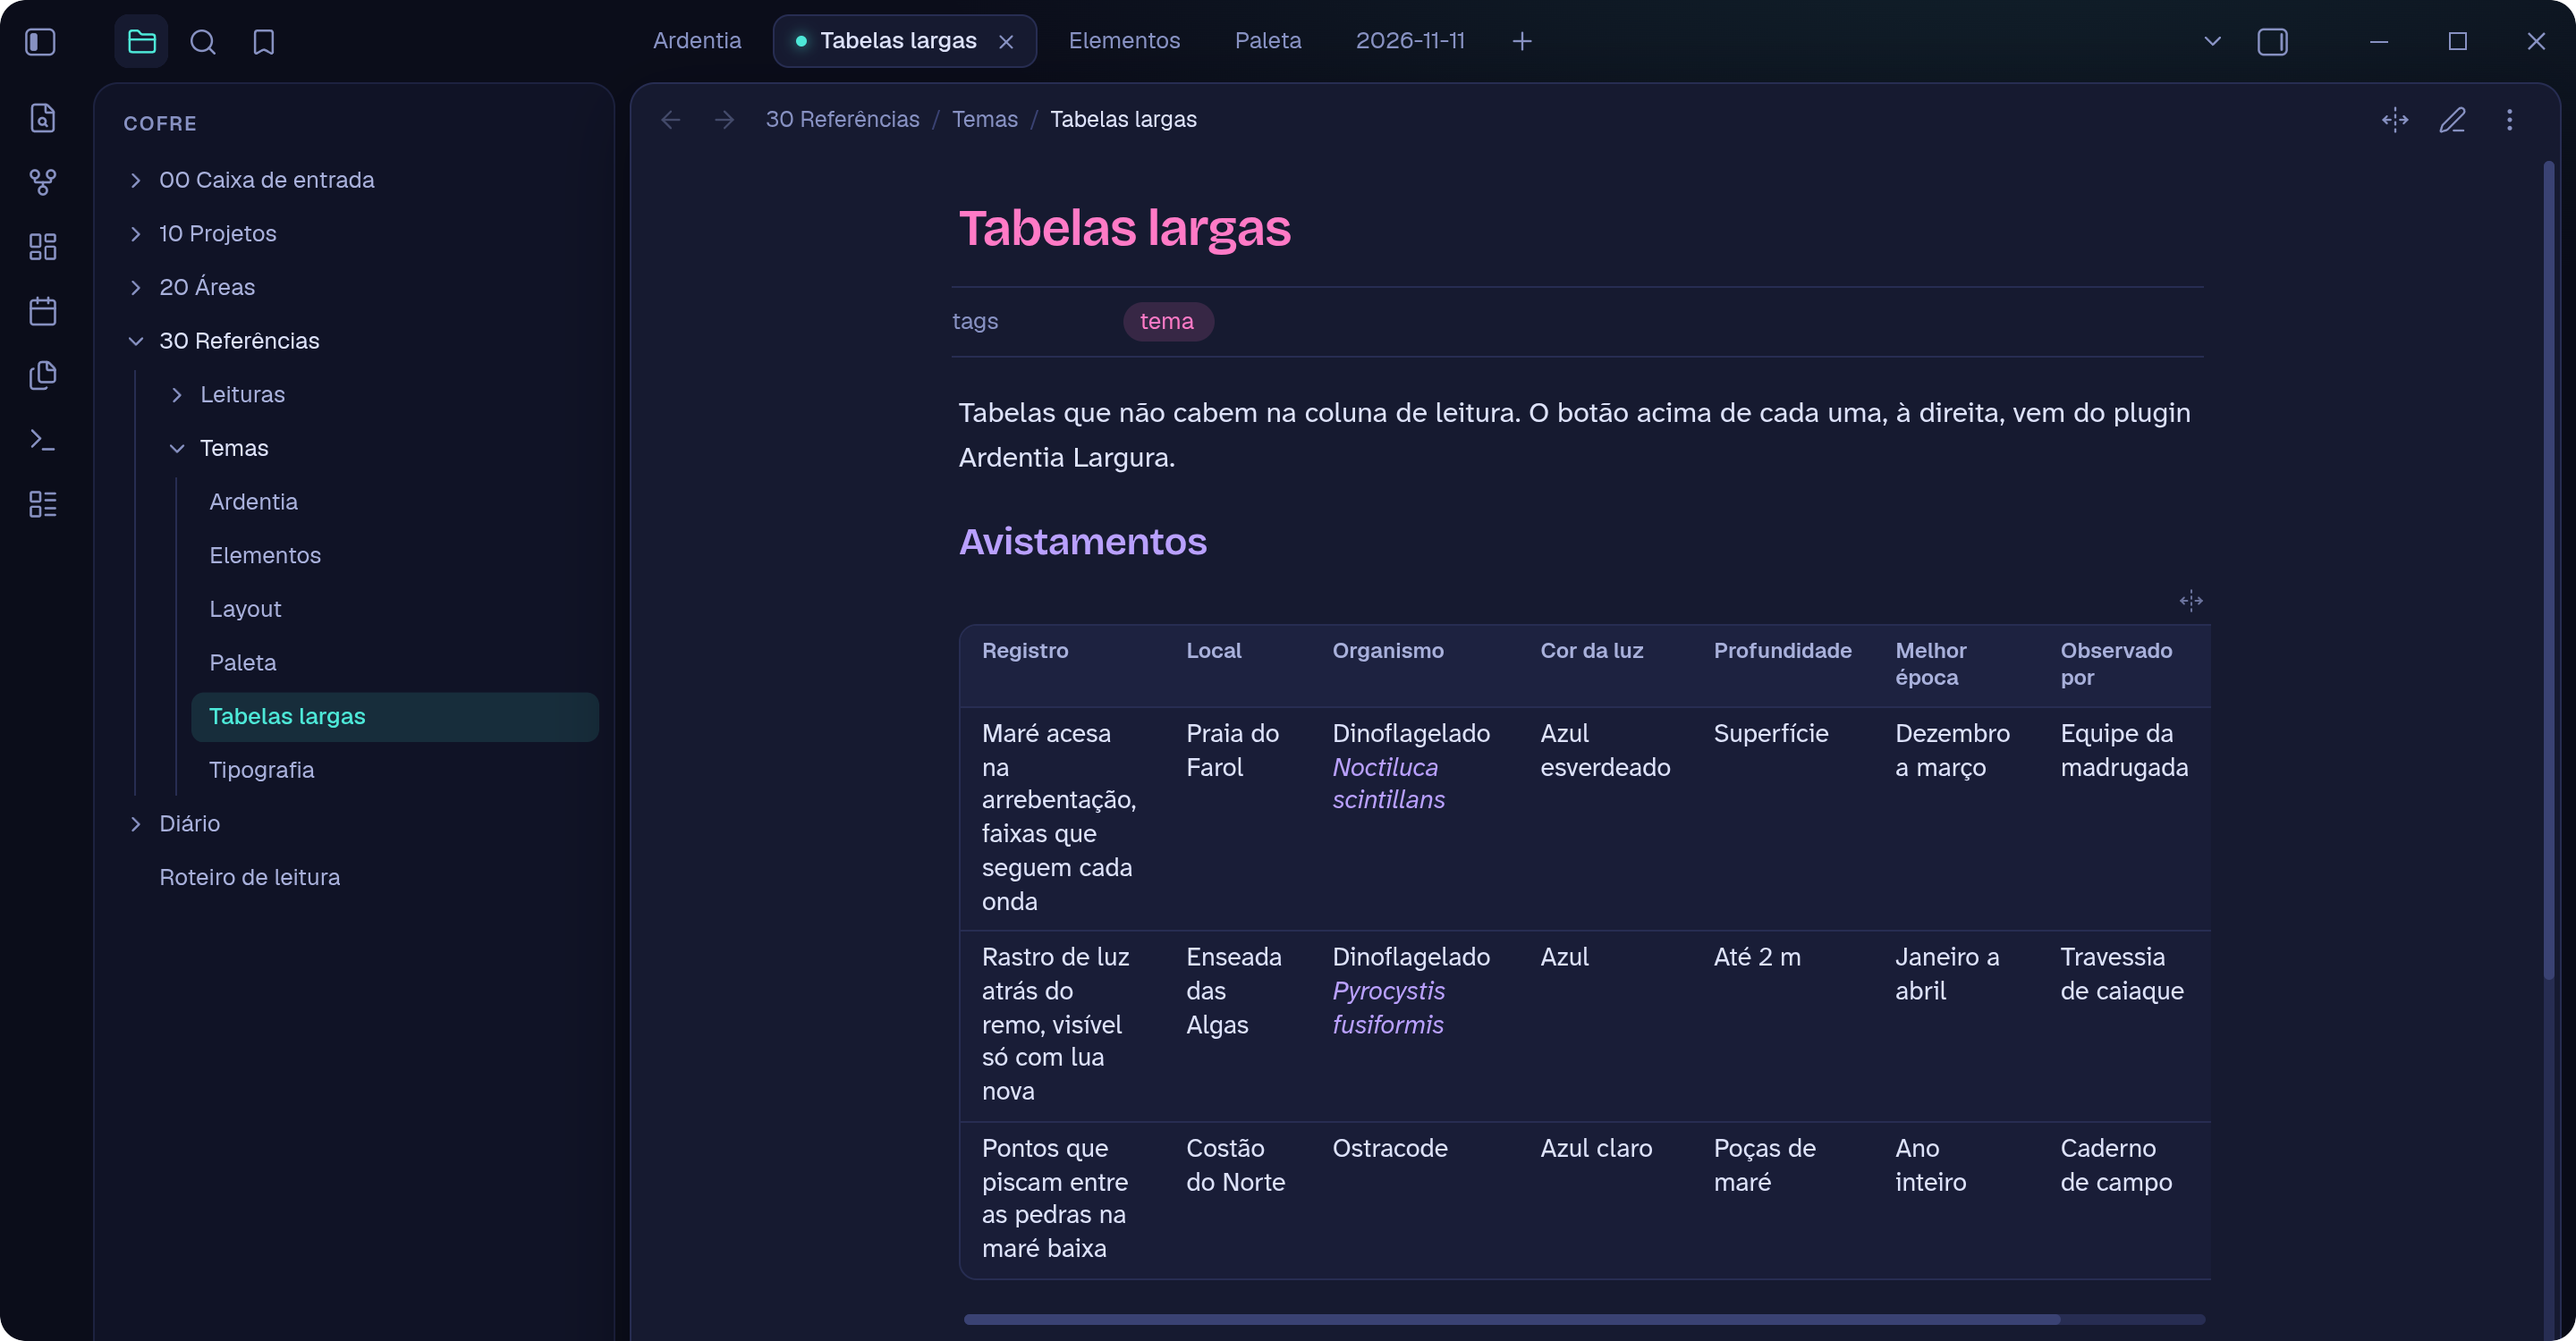
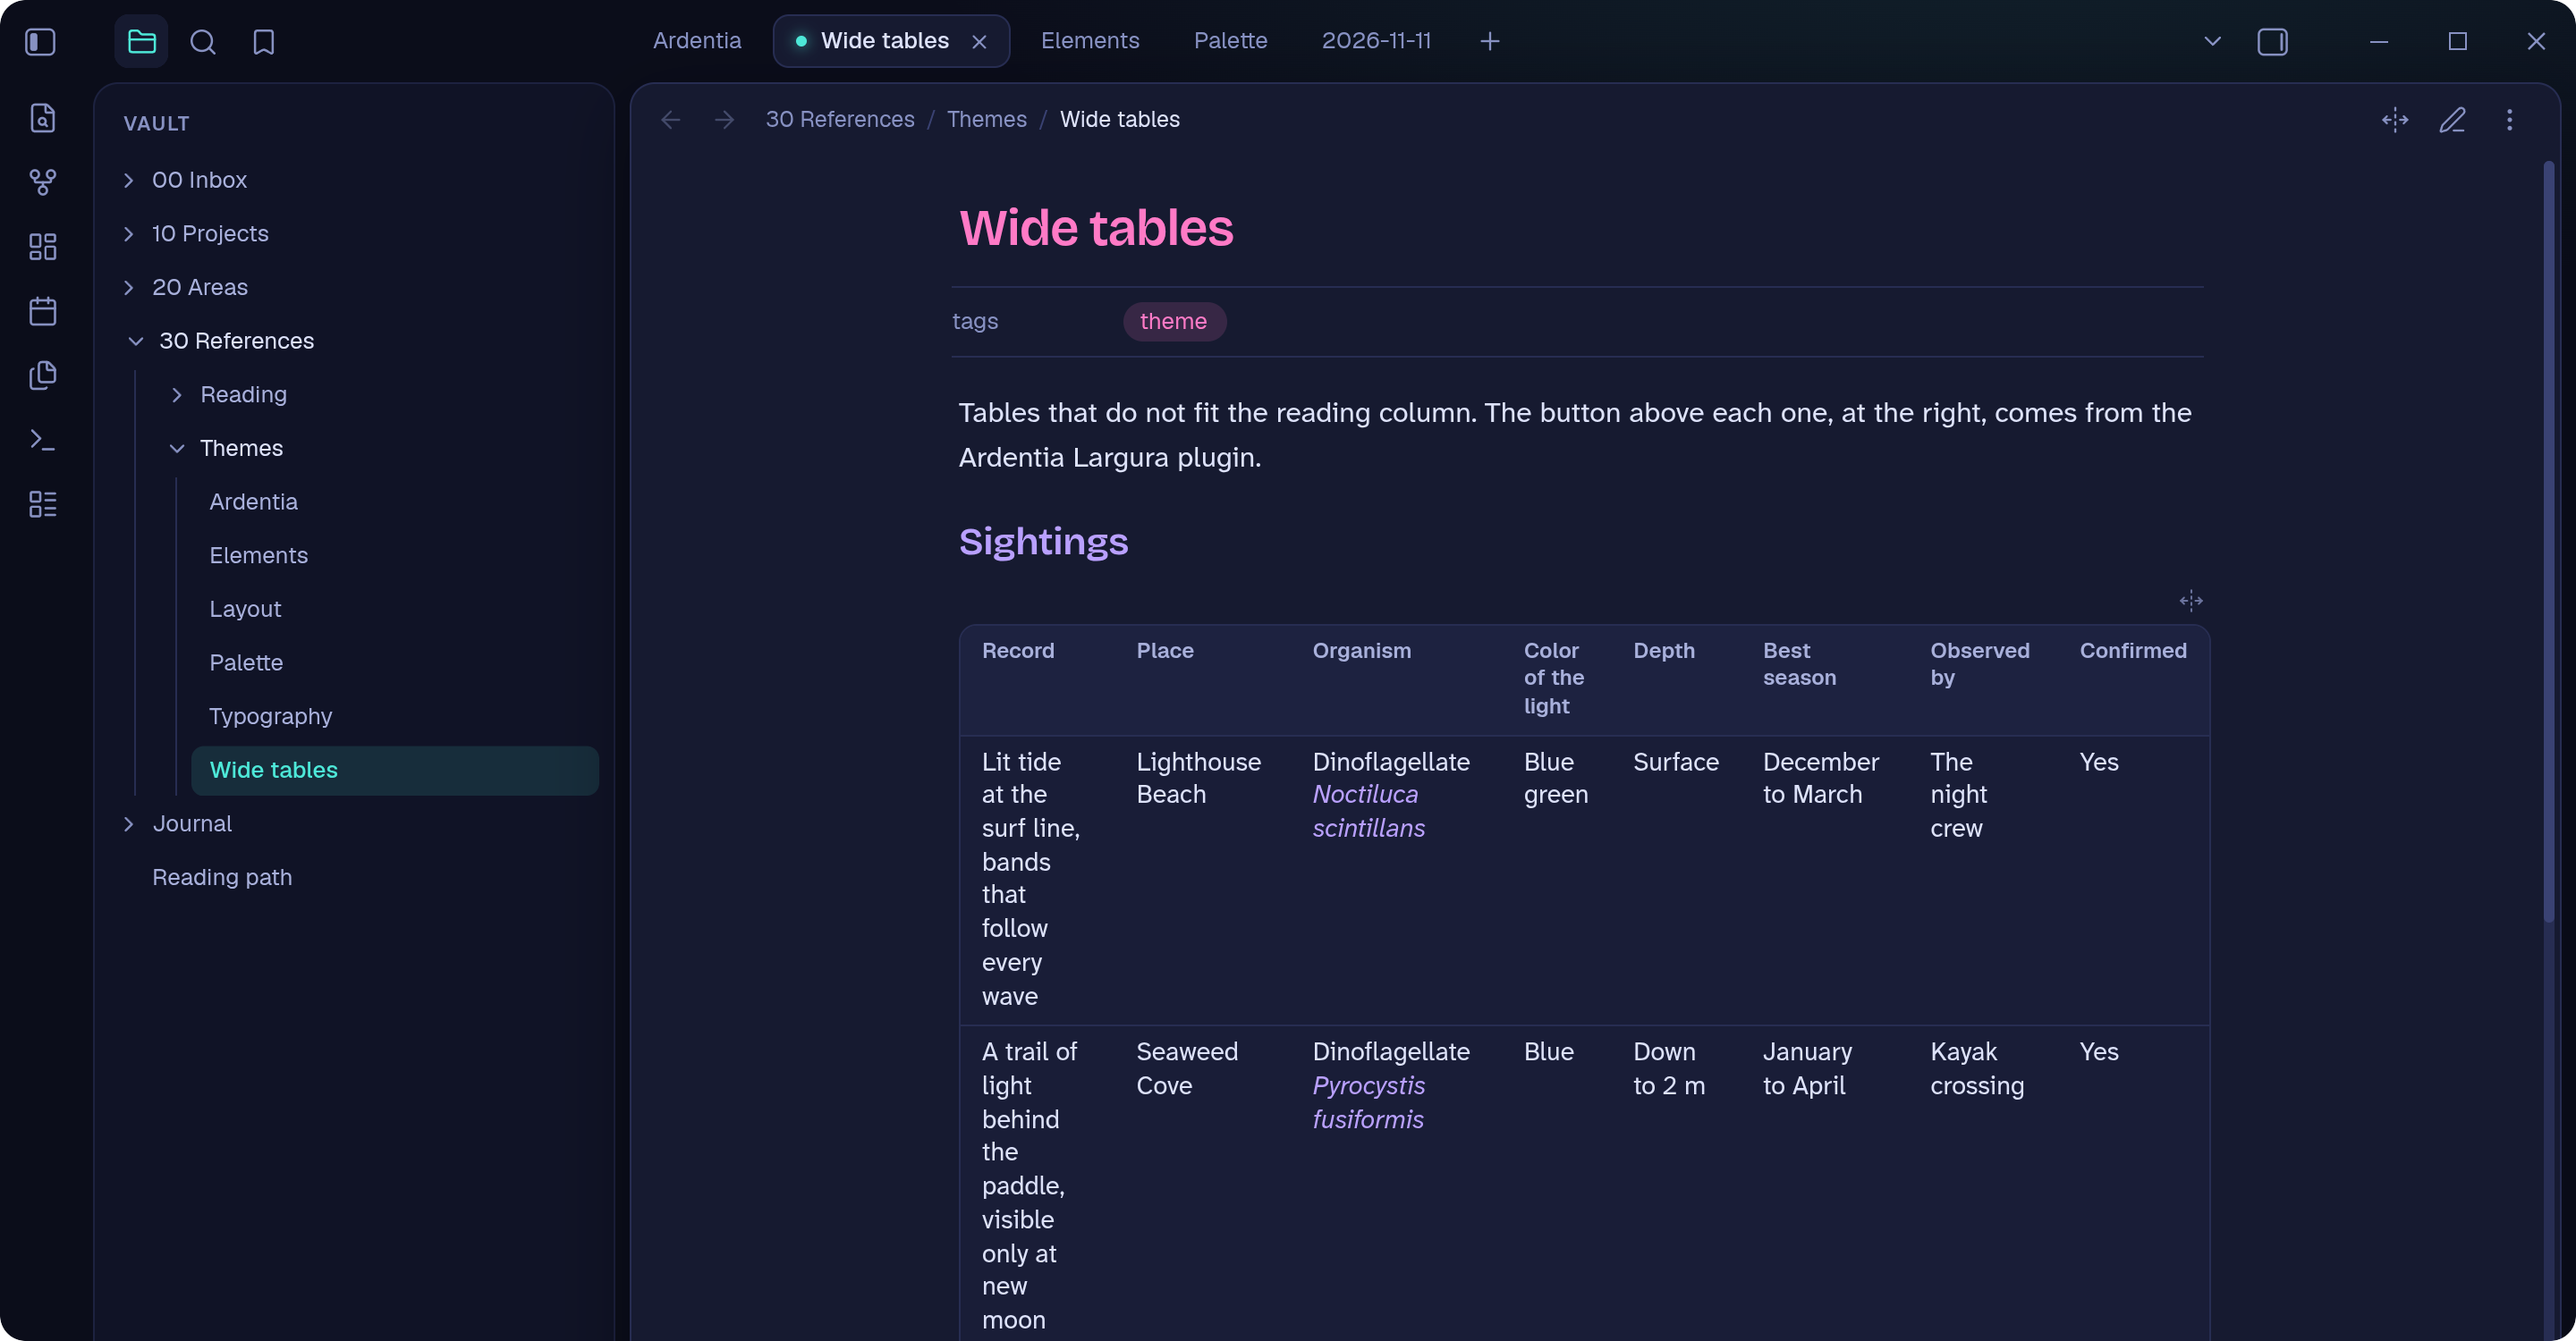
English screenshots for the English README
Screenshots now exist in English (default file names) and in Portuguese
(.pt-BR suffix); each README uses the set in its own language.

diff --git a/README.pt-BR.md b/README.pt-BR.md
@@ -8,7 +8,7 @@ Nasceu como companheiro do tema [Ardentia](https://github.com/jotafurtado/ardent
 
 | Tabela na coluna de leitura | A mesma tabela, expandida |
 | --- | --- |
-| ![Tabela larga cortada pela coluna de leitura, com rolagem horizontal](screenshots/table-contracted.png) | ![A mesma tabela expandida até a largura do painel](screenshots/table-expanded.png) |
+| ![Tabela larga cortada pela coluna de leitura, com rolagem horizontal](screenshots/table-contracted.pt-BR.png) | ![A mesma tabela expandida até a largura do painel](screenshots/table-expanded.pt-BR.png) |
 
 ## O que faz
 
